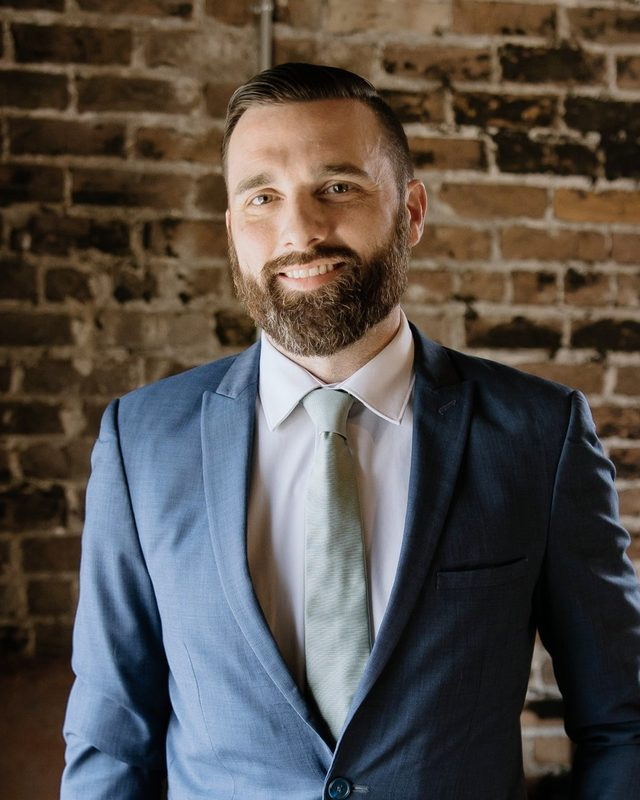
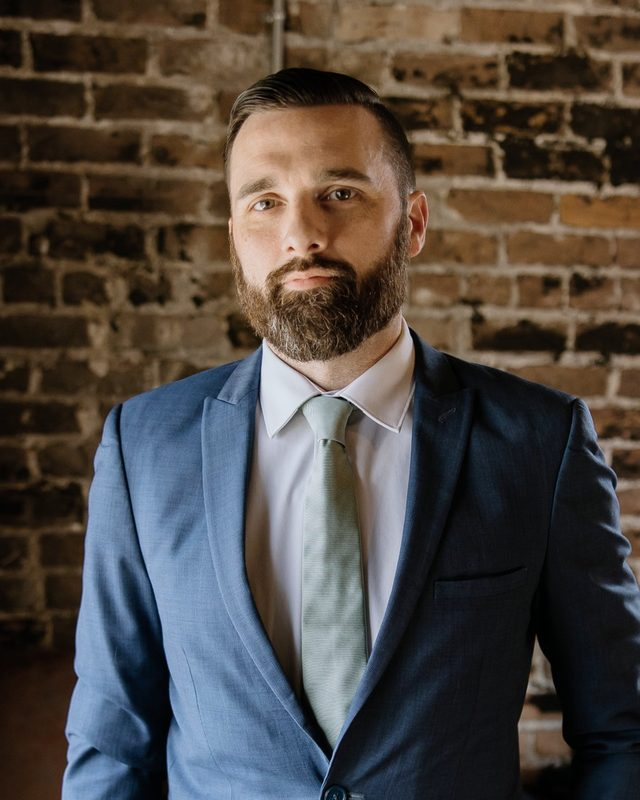
Use Kaleb's preferred photo; add page previews to the sample work cards
Claude-Session: https://claude.ai/code/session_011gfE3WkLFkDijeR6UC1NpF

diff --git a/index.html b/index.html
@@ -85,11 +85,10 @@ ol.steps{margin:0;padding-left:1.3em;display:grid;gap:10px}
 ol.steps li{padding-left:4px;max-width:66ch}
 ol.steps b{font-weight:600}
 .samples{display:grid;grid-template-columns:repeat(auto-fit,minmax(min(240px,100%),1fr));gap:14px;margin:6px 0 20px}
-.sample{display:flex;gap:14px;align-items:flex-start;border:1px solid var(--rule);border-radius:6px;padding:14px 16px;text-decoration:none;color:var(--ink);background:var(--bg)}
+.sample{display:flex;flex-direction:column;border:1px solid var(--rule);border-radius:6px;overflow:hidden;text-decoration:none;color:var(--ink);background:var(--bg)}
 .sample:hover{border-color:var(--accent)}
-.sample .doc{flex:none;width:40px;height:50px;border:1.5px solid var(--accent);border-radius:3px;position:relative;background:var(--paper)}
-.sample .doc::after{content:"PDF";position:absolute;bottom:5px;left:0;right:0;text-align:center;font-family:var(--mono);font-size:.62rem;color:var(--accent)}
-.sample .doc::before{content:"";position:absolute;top:8px;left:7px;right:7px;height:14px;background:repeating-linear-gradient(var(--rule) 0 2px,transparent 2px 5px)}
+.sample img{display:block;width:100%;height:auto;border-bottom:1px solid var(--rule);background:#fff}
+.sample-text{padding:12px 16px}
 .sample .t{display:block;font-weight:600;color:var(--ink);margin-bottom:2px}
 .sample .d{display:block;font-size:.88rem;color:var(--muted)}
 details{border-bottom:1px solid var(--rule)}
@@ -244,12 +243,12 @@ footer a{color:var(--muted)}
     <p>Both samples were written for a fictional company and a fictional solicitation, so you can see the format and level of detail before you order.</p>
     <div class="samples">
       <a class="sample" href="samples/sample-capability-statement.pdf" target="_blank" rel="noopener">
-        <span class="doc" aria-hidden="true"></span>
-        <span><span class="t">Sample capability statement</span><span class="d">One page · janitorial contractor · PDF</span></span>
+        <img src="assets/preview-capability.jpg" width="720" height="577" alt="Top of the sample capability statement for a fictional janitorial company" loading="lazy">
+        <span class="sample-text"><span class="t">Sample capability statement</span><span class="d">One page · janitorial contractor · PDF</span></span>
       </a>
       <a class="sample" href="samples/sample-proposal-excerpt.pdf" target="_blank" rel="noopener">
-        <span class="doc" aria-hidden="true"></span>
-        <span><span class="t">Sample proposal excerpt</span><span class="d">4 pages · city janitorial RFP · PDF</span></span>
+        <img src="assets/preview-proposal.jpg" width="720" height="577" alt="Cover letter and executive summary page of the sample proposal excerpt" loading="lazy">
+        <span class="sample-text"><span class="t">Sample proposal excerpt</span><span class="d">4 pages · city janitorial RFP · PDF</span></span>
       </a>
     </div>
     <h3>Every requirement, accounted for</h3>
